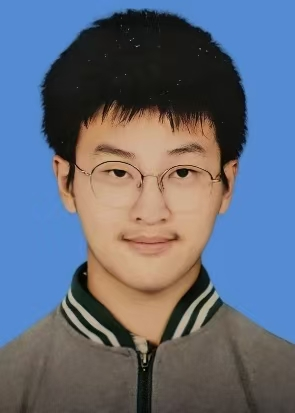
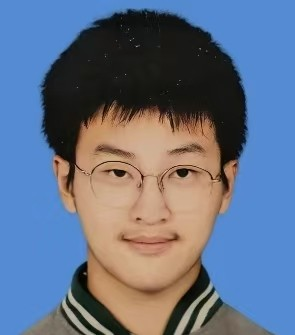
update

diff --git a/_pages/students-staffs.html b/_pages/students-staffs.html
@@ -242,7 +242,7 @@ author_profile: true
 
     <div class="person-card">
     <div class="person-left">
-      <img src="{{ '/images/students/favicon.png' | prepend: base_path }}" alt="Student Photo" class="person-photo" onerror="this.style.display='none'" />
+      <img src="{{ '/images/students/wushanshan.jpg' | prepend: base_path }}" alt="Student Photo" class="person-photo" onerror="this.style.display='none'" />
     </div>
     <div class="person-right">
       <div class="person-heading"><div class="person-name">Shanshan Wu</div><div class="person-links"><a href="#">Email</a></div></div>
